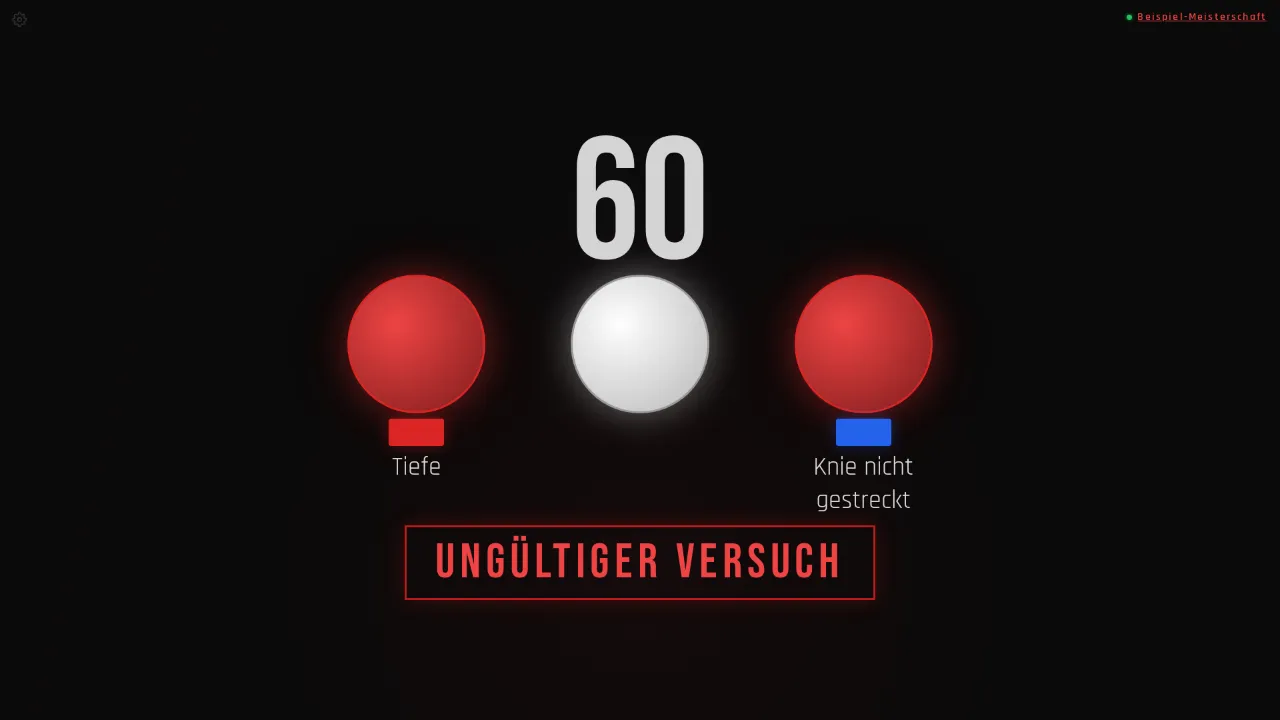
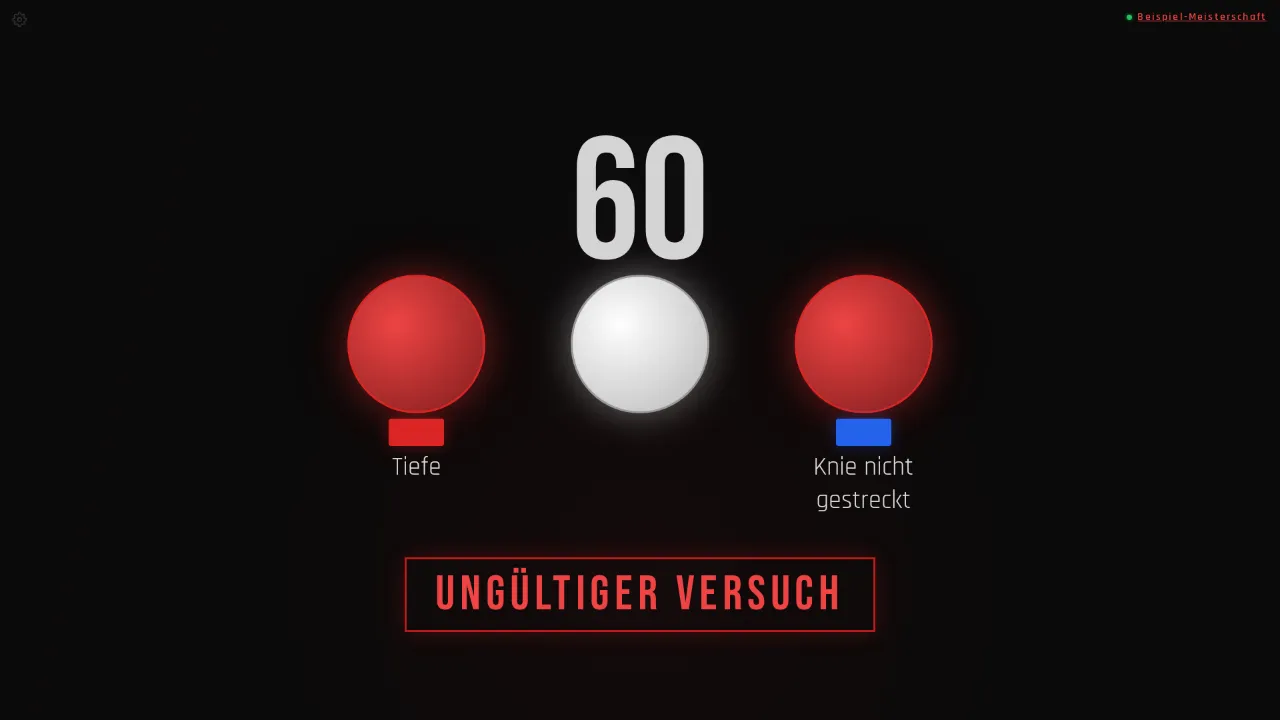
fix(display): keep layout editor labels and buttons clear of each other (#164)
* fix(display): keep layout editor labels and buttons clear of each other

The verdict label sat on top of the cards + reasons label in the default
layout. The verdict now sits further below the cards in the default flow
layout; the editor toolbar no longer wraps in German and is flatter, and
the attempt label grows to the left, so at 1280x720 every hide/show
button is fully visible and clickable.

Refs #162

Claude-Session: https://claude.ai/code/session_01J2j7Uj8vNjZEfSYELtb3fN

* docs(guide): regenerate guide screenshots with the label fix

Refs #162

Claude-Session: https://claude.ai/code/session_01J2j7Uj8vNjZEfSYELtb3fN

* docs: changelog, architecture and testing notes for #162

Refs #162

Claude-Session: https://claude.ai/code/session_01J2j7Uj8vNjZEfSYELtb3fN

* refactor(display): verdict room as a CSS token

Refs #162

Claude-Session: https://claude.ai/code/session_01J2j7Uj8vNjZEfSYELtb3fN

---------

Changed region(s): [[0.3125, 0.7028, 0.6875, 0.8861]]

diff --git a/src/iron_verdict/static/css/display-layout.css b/src/iron_verdict/static/css/display-layout.css
@@ -9,6 +9,19 @@
     --orb-size: calc(clamp(38px, 19.2vmin, 224px) * var(--display-zoom, 1));
 }
 
+/* Default flow layout: extra room between the cards + reasons and the
+   verdict, so in the editor the cards label (under the cards frame) and the
+   verdict label (above the verdict) sit one above the other instead of on
+   top of each other (#162). Fixed px like the labels, which do not scale:
+   two labels of 27px minus the 12px flex gap, plus a few px
+   (--layout-verdict-room; raise it with the label font or padding). The
+   negative bottom margin keeps the height of the flow, so the timer and the
+   lights stay where they were and only the verdict moves down. */
+.display-full:not(.display-layout-custom) .display-verdict-inline {
+    margin-top: var(--layout-verdict-room);
+    margin-bottom: calc(-1 * var(--layout-verdict-room));
+}
+
 /* ===== SAVED LAYOUT ===== */
 /* Each block sits at its own left/top (percent of the display, inline style)
    and scales with its own --display-zoom. */
@@ -114,7 +127,12 @@
     pointer-events: auto;
 }
 
-/* The attempt block is anchored at its right edge: scale it from the left. */
+/* The attempt block is anchored at its right edge: scale it from the left,
+   and its label grows to the left, so it stays on screen (#162). */
+.vportal-corner-right .layout-frame-label {
+    left: auto;
+    right: -2px;
+}
 .vportal-corner-right .layout-scale-handle {
     right: auto;
     left: -12px;
@@ -162,17 +180,22 @@
 }
 
 /* ===== EDITOR TOOLBAR ===== */
+/* Centred by auto margins between left and right, not by left: 50% plus a
+   transform: that would give it only half the screen width and wrap the
+   German buttons into three rows. Kept flat so at 1280×720 it ends above
+   the timer label (#162). */
 .layout-toolbar {
     position: absolute;
-    top: 12px;
-    left: 50%;
-    transform: translateX(-50%);
+    top: 6px;
+    left: 12px;
+    right: 12px;
+    width: fit-content;
+    margin: 0 auto;
     z-index: 20;
-    max-width: calc(100% - 24px);
     background: var(--bg-surface);
     border: 1px solid var(--panel-border);
     border-top: 2px solid var(--layout-frame);
-    padding: 10px 12px;
+    padding: 6px 12px;
     color: var(--panel-text);
     font-family: 'Rajdhani', sans-serif;
     box-shadow: 0 12px 32px rgba(0,0,0,0.5);
@@ -213,7 +236,7 @@
 }
 
 .layout-toolbar-hint {
-    margin-top: 6px;
+    margin-top: 4px;
     font-size: 12px;
     color: var(--text-dim);
 }

diff --git a/src/iron_verdict/static/css/variables.css b/src/iron_verdict/static/css/variables.css
@@ -34,6 +34,9 @@
     --layout-frame: #38BDF8;
     --layout-frame-cards: #FACC15;
     --layout-frame-text: #0A0A0A;
+    /* Extra room above the verdict in the default layout for the cards and
+       verdict editor labels (27px each, see .layout-frame-label) (#162). */
+    --layout-verdict-room: 48px;
     /* Stream overlay (#107): checkerboard behind the blocks while editing,
        notice when the overlay has no session. */
     --overlay-checker-a: #1a1a1f;

diff --git a/tests/e2e/test_display_layout.py b/tests/e2e/test_display_layout.py
@@ -19,6 +19,7 @@ import json
 import re
 
 import httpx
+import pytest
 from playwright.sync_api import expect
 
 from tests.e2e.network_switch import cut_network, join_with_network_switch, restore_network
@@ -586,3 +587,58 @@ def test_save_failure_is_shown_and_keeps_editor_open(page, server_url):
     expect(page.locator(ROOT)).to_have_class(EDITING)
     page.get_by_test_id("layout-cancel").click()
     expect(page.locator(ROOT)).not_to_have_class(EDITING)
+
+
+@pytest.mark.parametrize("lang", ["en", "de"])
+@pytest.mark.parametrize("size", [(1920, 1080), (1280, 720)])
+def test_editor_labels_do_not_overlap_in_default_layout(competition, size, lang):
+    """A no lift with reasons on a display in the default layout, editor open,
+    in English and German (longer labels and verdict) (#162): no two block
+    labels overlap, and every hide/show button lies fully on screen,
+    uncovered by the toolbar or anything else, so it can be clicked. Before
+    the fix the verdict label covered the label of the cards + reasons
+    (under the cards frame), and at 1280×720 the toolbar covered the timer
+    label and the attempt button stuck out on the right."""
+    head, left, right = competition.join_all_judges()
+    display = competition.join_as("display")
+    display.set_viewport_size({"width": size[0], "height": size[1]})
+    display.evaluate(f"localStorage.setItem('iron-verdict-lang', '{lang}')")
+    display.reload()
+    display.locator(ROOT).wait_for(state="visible")
+    vote(head, "white")
+    vote(left, "red", with_reason=True)
+    vote(right, "blue", with_reason=True)
+    expect(display.locator(".verdict-stamp")).to_have_class(re.compile(r"\binvalid\b"))
+    expect(display.locator(f"{ROOT} .display-orb-reason").first).to_be_visible()
+    open_editor(display)
+    expect(display.locator(ROOT)).not_to_have_class(CUSTOM)
+
+    labels = display.evaluate(
+        """() => [...document.querySelectorAll('.display-full .layout-frame-label')]
+            .filter(el => el.getClientRects().length)
+            .map(el => {
+                const r = el.getBoundingClientRect();
+                const button = el.querySelector('.layout-hide-toggle');
+                const b = button.getBoundingClientRect();
+                // Centre and the four corners (1px inside): nothing, e.g. the
+                // toolbar or another label, covers any part of the button.
+                const points = [[b.left + b.width / 2, b.top + b.height / 2],
+                                [b.left + 1, b.top + 1], [b.right - 1, b.top + 1],
+                                [b.left + 1, b.bottom - 1], [b.right - 1, b.bottom - 1]];
+                return { id: el.closest('[data-layout-block]').dataset.layoutBlock,
+                         rect: [r.left, r.top, r.right, r.bottom],
+                         button: [b.left, b.top, b.right, b.bottom],
+                         hit: points.every(([x, y]) => document.elementFromPoint(x, y) === button) };
+            })"""
+    )
+    assert {lab["id"] for lab in labels} == {"timer", "lights", "cards", "verdict", "lifter", "attempt"}
+    for i, a in enumerate(labels):
+        for b in labels[i + 1:]:
+            ax0, ay0, ax1, ay1 = a["rect"]
+            bx0, by0, bx1, by1 = b["rect"]
+            overlap = ax0 < bx1 and bx0 < ax1 and ay0 < by1 and by0 < ay1
+            assert not overlap, (a, b)
+    for lab in labels:
+        x0, y0, x1, y1 = lab["button"]
+        assert x0 >= 0 and y0 >= 0 and x1 <= size[0] and y1 <= size[1], lab
+        assert lab["hit"], lab

diff --git a/docs/testing.md b/docs/testing.md
@@ -145,7 +145,7 @@ Requirements and caveats:
 | [test_vportal_store.py](tests/e2e/test_vportal_store.py) | VPortal state shared across screens: after the display, browser back to role-select still shows "Connected to BVDK · Platform 1", the dialog reopens on the connected step and disconnect resets the button; a display whose WebSocket is cut (switch from [network_switch.py](tests/e2e/network_switch.py)) keeps the lifter overlay while reconnecting, recovers, and refills it after a reload; a display reloaded while the session lookup fails (`page.route` abort) shows the banner and fills the overlay once the lookup works, without another reload; after two display → role-select → display round trips no polling runs on role-select and exactly one poller runs on the display (poll ticks counted over a fixed window — the test measures a rate, so it waits). |
 | [test_vportal_integration.py](tests/e2e/test_vportal_integration.py) | Full VPortal flow against the `fake_vportal_url` fixture: connect modal (federation → credentials → stage), display overlay populates from polling, token-expiry mid-session hides overlay and shows banner, three consecutive upstream failures show banner, empty active group hides overlay without banner, login failures name their cause in the dialog (VPortal host refusing connections; fake `unreachable` → no session cookie), a failed stage list after login (`/api/vportal/graphql` fulfilled with 502 via `page.route`) shows an error on the stage step instead of loading forever and after disconnect → reconnect shows no stale stages from the first connect, session-driven visibility (device that joined via plain `/` still sees the connect button when the underlying session is `kind=vportal`). |
 | [test_display_sizing.py](tests/e2e/test_display_sizing.py) | Display screen settings panel: gear/`S` key open, dismiss via Escape, click-outside and leaving the display. |
-| [test_display_layout.py](tests/e2e/test_display_layout.py) | Display layout editor (issue #106): without a saved layout nothing changes (no zoom slider any more); entering edit mode moves nothing; drag (mouse, and real touch via CDP `Input.dispatchTouchEvent`) and scale handle, 1 % snapping, Save → reload shows the layout from the first frame (frames recorded with `requestAnimationFrame`); Cancel and Reset; hidden timer and cards stay hidden but show faded in the editor; cards keep centred under their light and only change their gap; the gap between the lights (issue #154) at its side handle with mouse and touch, 5 % steps, lower limit 0.4×, kept centred, saved and back after reload, discarded by Cancel; a stored layout without that gap keeps 128 px; export code (with the lights gap) copied to a second display, wrong code rejected; layout kept across a connection loss with a lift voted offline; votes, timer and verdict update while a block is mid-drag; VPortal blocks placeable without a lifter (faded sample text, labelled) and showing the real lifter from the fake VPortal at their new place after reload; VPortal polling updates the blocks while the editor is open (fake `/_control/clear_attempt` / `restore_attempt`); a much wider attempt keeps the attempt block's right edge (weight not cut off) and the verdict stays centred for "Good Lift" / "No Lift"; a failing `localStorage.setItem` shows the save error and keeps the editor open; `S`/Escape do not end the edit mode. |
+| [test_display_layout.py](tests/e2e/test_display_layout.py) | Display layout editor (issue #106): without a saved layout nothing changes (no zoom slider any more); entering edit mode moves nothing; drag (mouse, and real touch via CDP `Input.dispatchTouchEvent`) and scale handle, 1 % snapping, Save → reload shows the layout from the first frame (frames recorded with `requestAnimationFrame`); Cancel and Reset; hidden timer and cards stay hidden but show faded in the editor; cards keep centred under their light and only change their gap; the gap between the lights (issue #154) at its side handle with mouse and touch, 5 % steps, lower limit 0.4×, kept centred, saved and back after reload, discarded by Cancel; a stored layout without that gap keeps 128 px; export code (with the lights gap) copied to a second display, wrong code rejected; layout kept across a connection loss with a lift voted offline; votes, timer and verdict update while a block is mid-drag; VPortal blocks placeable without a lifter (faded sample text, labelled) and showing the real lifter from the fake VPortal at their new place after reload; VPortal polling updates the blocks while the editor is open (fake `/_control/clear_attempt` / `restore_attempt`); a much wider attempt keeps the attempt block's right edge (weight not cut off) and the verdict stays centred for "Good Lift" / "No Lift"; a failing `localStorage.setItem` shows the save error and keeps the editor open; `S`/Escape do not end the edit mode; in the default layout (1920×1080 and 1280×720, English and German, no lift with reasons) no two block labels overlap and every hide button is on screen and not covered (centre and corners hit-tested with `elementFromPoint`, issue #162). |
 | [test_display_overlay.py](tests/e2e/test_display_overlay.py) | Stream overlay for OBS (issue #107), 1920×1080: the overlay URL joins without clicks; `html`, `body` and the display root are transparent, no gear, session tag, panel or "Waiting…"; a vote shows lights and verdict, no dialog. Connection loss (network switch): the dot appears, the judges vote meanwhile, after reconnecting the dot hides and the result shows. Reload keeps the URL, shows neither *reconnecting* nor landing and restores the result. Session end → "Session ended" notice without an alert, reload → "Session not found". `&layout=` code hides the timer and locks the editor; an invalid code falls back with a hint. Editing (`S`) shows a checkerboard, saves under the overlay's own key (hall key untouched), survives reload. Role-select copies the overlay URL (clipboard granted) or selects it (no secure context). VPortal session: connect dialog from the panel → lifter and attempt appear, after reload again with the panel showing "Connected to BVDK" (fake VPortal). Texts on a dark panel with white text in the overlay, none on the hall display; the reasons keep the hall display's height and the lights do not move when they appear; the sample corner's panel is faded in the editor. Big lights (1.5×) at the smallest gap (0.4×) from `&layout=` with the three longest squat reasons: lights do not move, no word breaks inside (a hyphen may), the reason panels keep a gap; an older code without a lights gap keeps 128 px. Also: a first session check that fails (route aborted) is retried, so the connect button still appears, without the disconnected banner. |
 | [test_display_contrast.py](tests/e2e/test_display_contrast.py) | Display contrast mode (issue #105): off by default with today's colours; switch on → reload → still on, red light with card and reason and the verdict shown as usual; on → off stays off after reload; with contrast on every display text (session name, timer running and expired, waiting text, reasons, Good/No Lift) and the VPortal corners (fake VPortal) reach ≥ 7:1, computed from the rendered colours; mode survives a cut and restored display connection (switch from [network_switch.py](tests/e2e/network_switch.py)) and the next lift's lights arrive. |
 | [test_guide_screenshots.py](tests/e2e/test_guide_screenshots.py) | Guide screenshots (issue #157): runs `scripts/guide_screenshots.py --out <tmp>` as a subprocess → exactly `de/` and `en/` × `result-reasons.webp`, `layout-editor.webp`; each has a RIFF/WEBP header, decodes in Chromium at 1280×720 and stays below 150 KB; German and English images differ. |

diff --git a/docs/architecture.md b/docs/architecture.md
@@ -359,6 +359,7 @@ From the settings overlay the operator opens an edit mode (#106) to arrange the 
 *Why the lights gap stops at 0.4×:* the gap is also the room a reason may reach into the neighbouring column; below 0.4× the reason panels of neighbouring lights touch and long German reasons break inside a word at large scales (comparison matrix over a stream picture, maintainer decision on #154). Line breaks and reason font size stay as before. *Why a factor on `8rem` and not light sizes:* a missing value means factor 1, so every older layout and code keeps exactly today's gap.
 
 *Why a coupled cards block:* moving cards freely could put a card under the wrong light; the useful freedom is the distance to the lights.
+*Why the verdict sits 48 px lower in the default layout:* the editor labels have a fixed size (they do not scale with the display), the verdict label sits above the verdict and the cards label under the cards frame, so with the flow gap of 12 px they covered each other (#162). `display-layout.css` gives the verdict `margin-top: 48px` with an equal negative bottom margin, so the flow keeps its height and only the verdict moves — timer and lights stay put. The editor toolbar is flat and centred by auto margins (not `left: 50%`, which wraps it at half the screen width) and the attempt label grows to the left, so at 1280×720 no label or hide button is covered or off screen; `test_display_layout.py` checks this in English and German.
 *Why only the toolbar ends the edit mode (not `S` / `Esc`):* a stray key under time pressure must neither drop nor save an arrangement.
 *Why an export code instead of server storage:* layouts are per screen; the code copies one to a second device without a new API surface. An OBS browser source keeps its own layout like any display (see *Stream overlay*).
 

diff --git a/CHANGELOG.md b/CHANGELOG.md
@@ -13,6 +13,7 @@ Versioning follows [Semantic Versioning](https://semver.org/).
 - Stream overlay for OBS: "Stream overlay (OBS)" on role select gives a URL for an OBS browser source that shows lights, reasons, verdict, timer and lifter info on a transparent background without controls, texts on a dark panel so they stay readable over the camera picture; it has its own layout (or one passed in the URL) and connects to VPortal from its settings ("S")
 
 ### Changed
+- The verdict sits a little further below the cards and reasons, so in the display layout editor their labels and hide buttons no longer cover each other
 
 ### Fixed
 - Session lookup and creation limits now count per network instead of across all competitions, so a wave of joins or reloads elsewhere can no longer lock judges out with "Too Many Requests"
